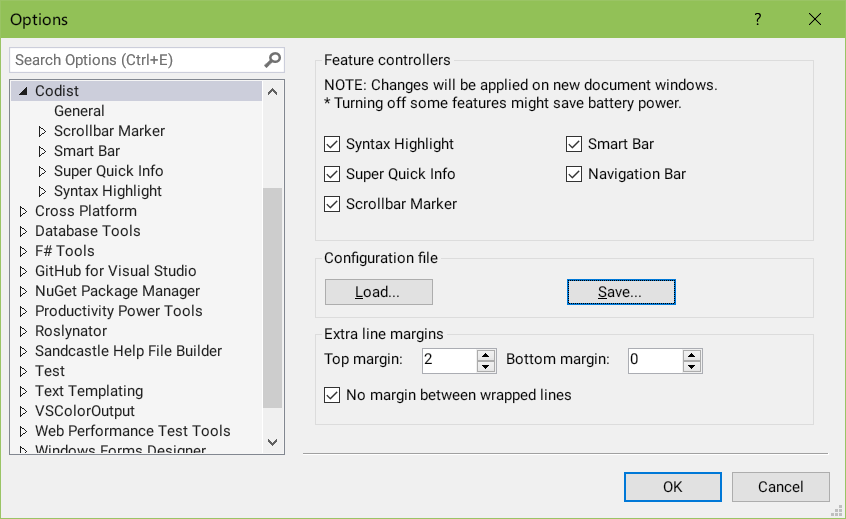
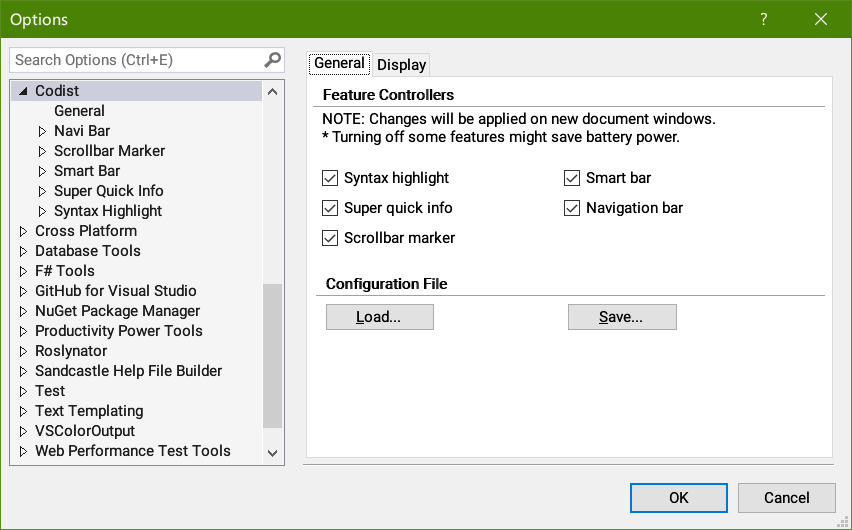
Version 4.2: + Showed field values in Navi Bar menu items + Options for Navi Bar + Text rendering optimization in code window and main window + Added Find Extension Method to Smart Bar commands + Find Members command in Smart Bar also showed inherited interface members for interface types + Added me

diff --git a/TestProject/InheritDoc.cs b/TestProject/InheritDoc.cs
@@ -14,4 +14,22 @@ namespace TestProject
 		  System.Runtime.Serialization.SerializationInfo info,
 		  System.Runtime.Serialization.StreamingContext context) : base(info, context) { }
 	}
+
+	class TestInheritDoc
+	{
+		/// <summary>
+		/// The description of method.
+		/// </summary>
+		/// <param name="param">The description of parameter.</param>
+		public static void Method(string param) {
+		}
+
+		// turn on <inheritdoc cref=""/> feature in the options page of Super Quick Info,
+		// hover on the following method to see it inherit doc from the above method
+		/// <inheritdoc cref="Method(string)"/>
+		/// <param name="value">The value of the method.</param>
+		public void InheritFromMethod(string param, string value) {
+
+		}
+	}
 }

diff --git a/Codist/Properties/AssemblyInfo.cs b/Codist/Properties/AssemblyInfo.cs
@@ -11,4 +11,4 @@ using System.Runtime.InteropServices;
 [assembly: AssemblyCulture("")]
 [assembly: ComVisible(false)]
 [assembly: AssemblyVersion("4.0.0.0")]
-[assembly: AssemblyFileVersion("4.1.0.2935")]
+[assembly: AssemblyFileVersion("4.1.0.2948")]

diff --git a/README.md b/README.md
@@ -1,5 +1,5 @@
 # Codist
-*Codist* is a visual studio extension which strives to provide better coding experience and productivity for C# programmers.
+*Codist* is a Visual Studio extension which strives to provide better coding experience and productivity for C# programmers.
 
 # Features
 
@@ -9,13 +9,13 @@
 * [Scrollbar Marker](#scrollbar-marker)
 * [Symbol Marker](#symbol-marker)
 * [Navigation bar](#navigation-bar) (**new in version 4.0**)
-* Extra margin between lines
+* [Display enhancements](#display-enhancements)
 * [Comprehensive configurations](#feature-control)
 * [License](#License), [Bugs and sugguestions](#bugs-and-suggestions)
 
 ![Feature overview](doc/preview.png)
 
-## Advanced C# syntax highlight
+## Advanced C# Syntax Highlight
 
   The advanced syntax highlight function highlights every aspect of C# language elements with various styles and font settings, changing font style sizes, changing background and foreground colors, making text semitransparent.
 
@@ -33,7 +33,7 @@
  
   ![Syntax highlight](doc/highlight1.png) 
 
-### Default syntax highlight themes
+### Default Syntax Highlight Themes
 
   To quickly get started with advanced syntax highlight, navigate to the *Syntax Highlight* section, click the *Light theme* or *Dark theme* button in the *options* dialog and see them in effect. Don't forget to click the *OK* button to confirm the change.
 
@@ -41,7 +41,7 @@
 
   From version 4.0 on, it is possible to Save and Load your own syntax highlight to an individual file and share it with your workmates.
 
-### Customization of syntax highlight styles
+### Customization of Syntax Highlight Styles
 
   To customize and tweak the syntax highlight styles, click the *common syntax* tab in the *syntax highlight* section, or click the sub sections inside the *Syntax Highlight* section to change individual styles, accordingly.
 
@@ -51,7 +51,7 @@
 
   **TIP**: Open a document window before you change the syntax theme or tweak the syntax highlight settings, while you change theme, you can see how the styles change in the code document window simultaneously.
 
-### My symbols and external symbols
+### My Symbols and External Symbols
 
   From version 4.0 on, it is possible to identify symbols which are defined in your source code and which are imported from external assemblies.
 
@@ -59,7 +59,7 @@
 
   ![Symbolmarker Options 2](doc/symbolmarker-options-2.png)
 
-## Comment tagger and styles
+## Comment Tagger and Styles
 * The comment tagger highlights comments to your specific styles, according to the first token inside the comment.
 
   Here's the effect of the highlighted comments.
@@ -115,6 +115,10 @@ The quick info (the tooltip shown when you hover your mouse pointer on your C# s
 
   ![Super Quick Info 12](doc/super-quick-info-12.png)
 
+    From version 4.2 on, it is possible to reuse documentations from specific members with the `<inheritdoc cref="MemberName"/>` syntax.
+
+   ![Super Quick Info Inheritdoc](doc/super-quick-info-inheritdoc.png)
+
     It is possible to show documentation about the `<returns>` and `<remarks>` content.
 
   ![Super Quick Info 13](doc/super-quick-info-13.png)
@@ -159,6 +163,12 @@ The quick info (the tooltip shown when you hover your mouse pointer on your C# s
 * **Color info** shows colors as you hover on a name that might be predefined color values.
 
   ![Super Quick Info - Color](doc/super-quick-info-color.png)
+
+### Customization
+
+To customize the *Super Quick Info*, adjust the settings in the options page.
+
+  ![Super Quick Info Csharp Options](doc/super-quick-info-csharp-options.png)
 
 ## Smart Bar
 
@@ -226,13 +236,23 @@ The scrollbar can mark...
 
   Clicking on namespace or class definition syntax node will drop down a menu, showing members defined under it.
 
-  You can type in the text box nearby the funnel icon to filter members listed in the menu.
+  You can type in the text box nearby the funnel icon to filter members listed in the menu. The buttons to the right hand side of the text box can be used to further filter the results.
 
   ![Navigation Bar Menu](doc/navigation-bar-menu.png)
 
-  Clicking on the "//" button at the left side of the navigation bar will pop up a text box. You can type in it and search for declarations defined in the active document code window.
+  Clicking on the "//" button at the left side of the navigation bar will pop up a text box. You can type some text in it and search for declarations defined in the active document code window.
 
   ![Navigation Bar Search Declaration](doc/navigation-bar-search-declaration.png)
+
+## Display Enhancements
+
+In the *Display* tab of the *General* options page, several display enhancement options are offered.
+
+  ![General Options Display](doc/general-options-display.png)
+
+Within the *Extra line margins* group box, you can adjust margins between lines to make code lines more readable.
+
+Programmers who do not like *ClearType* rendering, which made text blurry and colorful, may want to try _Force Grayscale Text Rendering_ options.
 
 # Feature Control
   Open the *Codist* section in the *Tools->Options* dialog. In the *General* section you can toggle features of *Codist*.
@@ -247,7 +267,7 @@ The scrollbar can mark...
 
    These **options will take effect on new document windows**. Existing document windows won't be affected.
 
-2. Within the *Extra line margins* group box, you can adjust margins between lines to make code lines more readable.
+2. To share or backup your settings of Codist, you can use the *Save* and *Load* buttons.
 
 # Acknowledgements
 I have learned a lot from the following extension projects.
@@ -267,17 +287,19 @@ I have learned a lot from the following extension projects.
 
 _Codist_ comes from the open source community and it goes back to the community.
 
-_Codist_ is free software: you can redistribute it and/or modify it under the terms of the GNU General Public License as published by the Free Software Foundation, either version 3 of the License, or (at your option) any later version.
+_Codist_ is **free** software: you can redistribute it and/or modify it under the terms of the GNU General Public License as published by the Free Software Foundation, either version 3 of the License, or (at your option) any later version.
 
 This program is distributed in the hope that it will be useful, but WITHOUT ANY WARRANTY; without even the implied warranty of MERCHANTABILITY or FITNESS FOR A PARTICULAR PURPOSE. See the GNU General Public License for more details.
 
 You should have received a copy of the GNU General Public License along with this program. If not, see "https://www.gnu.org/licenses".
 
-# Bugs and suggestions
+# Bugs and Suggestions
 Please [post New Issue](https://github.com/wmjordan/Codist/issues) in the [GitHub project](https://github.com/wmjordan/Codist) if you find any bug or have any suggestion.
 
 Your vote and feedback on the [Visual Studio Extension Marketplace](https://marketplace.visualstudio.com/items?itemName=wmj.Codist) are also welcomed.
 
-# Support Codist by donation
+# Support Codist by Donation
 
 If you like _Codist_ and want to support the future development of it, you can [donate to the author](http://paypal.me/wmzuo).
+
+The recommended amount of donation is `$19.99`, nevertheless, any other amount of donations are appreciated.
